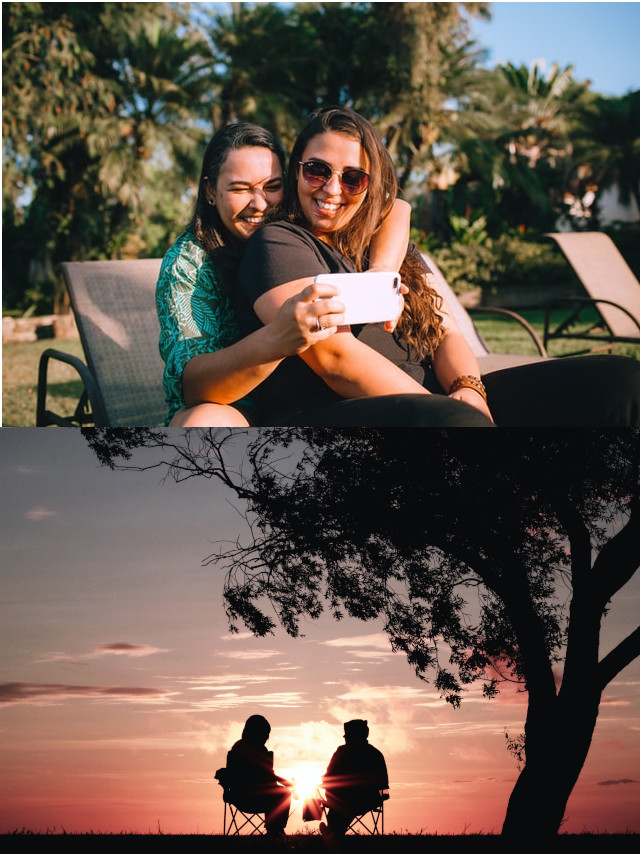
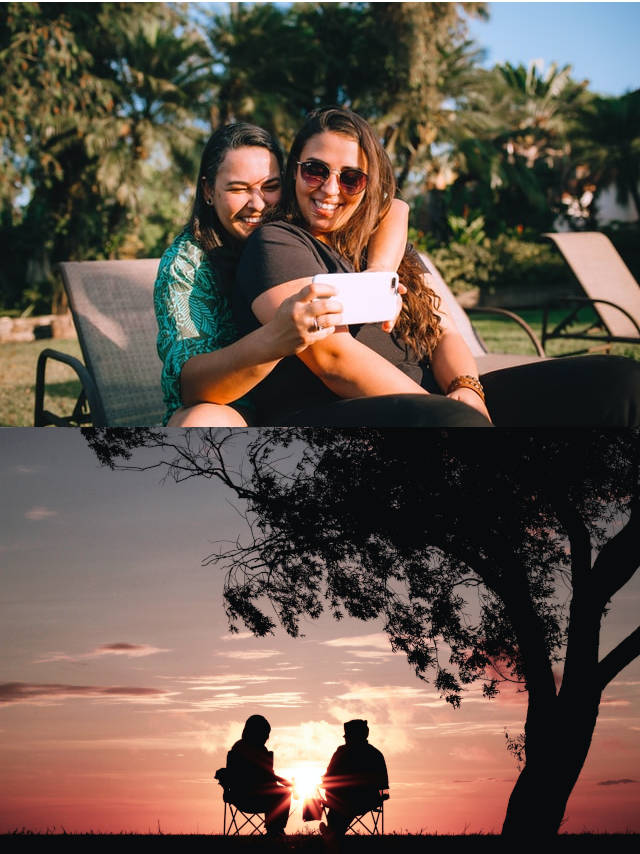
added content to home.html, added styles for testimonials to styles.css, reduced storage size of home.jpg for faster page loading

diff --git a/views/home.html b/views/home.html
@@ -41,8 +41,8 @@
 </header>
 <main class="container">
     <div>
-    <p class="font-italic">
-        <img src="images/home.jpg" class="rounded img-fluid" style="float: right">
+    <p class="">
+        <img src="images/home.jpg" class="rounded img-fluid align-right">
     <h1 class="text-center">Millennial Connection</h1>
     <h4 class="text-center">Welcome to a safer, better online dating experience tailored to millennials</h4>
     Welcome to Millennial Connection! A modern dating site for millennials,
@@ -58,18 +58,18 @@
     check.
     </p>
     </div>
-    <h4 class="">Check out what our members have to say about out unique service!</h4>
-    <div class="text-indent text-italic">
-    <p>
-        Here at Millennial Connection, every member is rigorously vetted, including a federal and all states background
-        check.
-        <hr class="text-indent">
-        Here at Millennial Connection, every member is rigorously vetted, including a federal and all states background
-        check.
-        <hr>
-        Here at Millennial Connection, every member is rigorously vetted, including a federal and all states background
-        check.
+
+    <div class="text-italic">
+        <h4 class="text-center">Check out what our members have to say about out unique service!</h4>
+    <p class="ml-5 pl-5">
+        "I met my lifetime partner after only a few months on Millennial Connection!"
     </p>
+        <p>"I am so grateful that I found Millennial connect! I met the love of my life through their service and
+            now I cannot imagine life without my new soul mate"
+        </p>
+        <p>"After trying everything else out there and almost giving up on finding lifetime love, I found Millennial Connect and
+            now I truly know what real lifetime love feels like!"
+        </p>
     </div>
 
 

diff --git a/styles/styles.css b/styles/styles.css
@@ -4,3 +4,6 @@
 .text-italic {
     font-style: italic;
 }
+.align-right {
+    float: right;
+}
